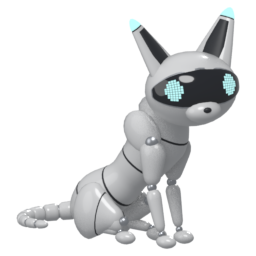
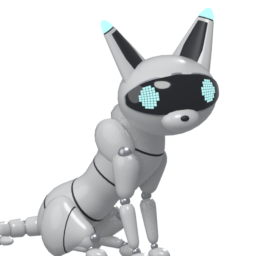
Stage 25.4: a tighter crop for the whole robot cat picture
The "Robot cat" bot picture is now framed from the head down: the head and
ears take half the square, with the chest and front legs below it, and the
haunch, paws and tail run off the edges. It reads better in the sidebar and
the picker. build_pet.py's marks mode does the framing (MARK_FULL_HEAD); the
head picture is unchanged.

Claude-Session: https://claude.ai/code/session_017vx8Gk8mVnizaYbBLyBYR9

diff --git a/art/pet3d/build_pet.py b/art/pet3d/build_pet.py
@@ -757,6 +757,28 @@ def fit_square(parts, pose, yaw, pitch, margin=0.05):
     return target, max(u.max() - u.min(), v.max() - v.min()) * (1 + 2 * margin)
 
 
+def fit_head_crop(parts, pose, yaw, pitch, head_share=0.5, margin=0.03):
+    """A tighter square for a whole figure: the head (with its ears) takes `head_share` of the
+    square's height and sits at the top; sideways the square centres on whatever of the body
+    falls inside it, the tail aside (it may leave the picture), keeping the whole head in."""
+    right, up, _ = camera_axes(yaw, pitch)
+    xf = solve(pose)
+    head = np.vstack([skinned(p, xf) for p in parts if set(p.weights) <= {"head", "ear_n", "ear_f"}])
+    body = np.vstack([skinned(p, xf) for p in parts
+                      if len(p.verts) and not any(b.startswith("tail") for b in p.weights)])
+    hu, hv = head @ right, head @ up
+    units = (hv.max() - hv.min()) / head_share
+    top = hv.max() + margin * units
+    bu, bv = body @ right, body @ up
+    inside = bu[bv >= top - units]
+    cu = (inside.min() + inside.max()) / 2
+    lo, hi = hu.max() + margin * units - units / 2, hu.min() - margin * units + units / 2
+    cu = min(max(cu, lo), hi) if lo <= hi else (hu.min() + hu.max()) / 2
+    cv = top - units / 2
+    centre = body.mean(axis=0)
+    return centre + right * (cu - centre @ right) + up * (cv - centre @ up), units
+
+
 def point_on(xf, bone, v):
     """Where a rest-pose point bound to `bone` is in a solved pose."""
     R, pos = xf[bone]
@@ -1881,12 +1903,13 @@ def render_icon(pet, rnd, cfg, out_dir):
 MARK_FINE = ICON_FINE + ("neck_seam", "haunch_seam_hn", "haunch_seam_hf") + tuple(
     "body_seam%d" % k for k in range(4))
 MARK_VIEWS = {"head": (66.0, 5.0), "full": (38.0, 8.0)}   # camera yaw, pitch
+MARK_FULL_HEAD = 0.50           # how much of the full mark's height the head (with ears) takes
 MARK_SIZES = (256, 64)          # 64 is the simplified version, for marks shown at 32 px and less
 
 
 def mark_pose(kind, small):
-    """The pose of a bot's mark: the icon's head, or the whole cat sitting, turned a little
-    towards the viewer with its tail round its paws."""
+    """The pose of a bot's mark: the icon's head, or the cat sitting, turned a little towards
+    the viewer (the full mark is cropped close: see fit_head_crop)."""
     if kind == "head":
         return icon_pose(small)
     return P(SIT, ky=-34, kr=4, en_r=8, ef_r=8)
@@ -1913,7 +1936,10 @@ def render_marks(pet, rnd, cfg, out_dir):
             pet.show(wanted, extras=small)
             pose = mark_pose(kind, small)
             seen = [part for _, part in pet.parts if wanted(part) and (small or part.name not in pet.extras)]
-            target, units = fit_square(seen, pose, yaw, pitch, margin=0.03)
+            if kind == "full":   # cropped close: head and chest large, haunches and tail cut off
+                target, units = fit_head_crop(seen, pose, yaw, pitch, head_share=MARK_FULL_HEAD)
+            else:
+                target, units = fit_square(seen, pose, yaw, pitch, margin=0.03)
             over_sample = 8 if small else 1
             aim_camera(pet.scene, (size * over_sample, size * over_sample), yaw, pitch, units_w=units,
                        target=tuple(target))
@@ -1924,7 +1950,7 @@ def render_marks(pet, rnd, cfg, out_dir):
             for _ in range(3 if small else 0):
                 images = {p: halve(img) for p, img in images.items()}
                 # halve() weights colour by alpha; the mask's colour is white throughout
-            if touches_edge(images["base"][..., 3]):
+            if kind == "head" and touches_edge(images["base"][..., 3]):
                 log("WARNING: the %s mark at %d px touches the edge of its square" % (kind, size))
             entry["files"][str(size)] = {}
             for p, img in images.items():

diff --git a/art/pet3d/README.md b/art/pet3d/README.md
@@ -69,12 +69,14 @@ square, a squarer-on view, and rendered at 8x then averaged down so edges stay c
 the pet's three passes so the app can tint the shell with the bot's colour the same way:
 
 - `head`: the head alone in the icon's view, eyes open and cyan, ear lights on.
-- `full`: the whole cat sitting, turned towards the viewer, tail round its paws.
+- `full`: the cat sitting, turned towards the viewer, cropped close so it reads at sidebar size:
+  the head (with ears) takes half the square's height, the chest and front legs fill the rest,
+  and the haunches, paws and tail run off the edges (`MARK_FULL_HEAD` sets the share).
 
 Files: `mark_<head|full>_<base|mask|gloss>_<256|64>.png`. The 256 px ones are the full model. The
 64 px ones are for marks shown at 32 px and below: bigger solid eyes, larger ear lights, no fine
-seams, rendered at 8x and averaged down. Each is framed automatically to fill its square with a
-3% margin; the full cat is tall and narrow, so it fills the height, not the width.
+seams, rendered at 8x and averaged down. The head is framed automatically to fill its square
+with a 3% margin.
 
 `marks.json` lists the files and, per size, the two eye centres as `[x, y]` fractions of the
 square from its top left (`near` is the eye on the viewer's side, `far` the other).
